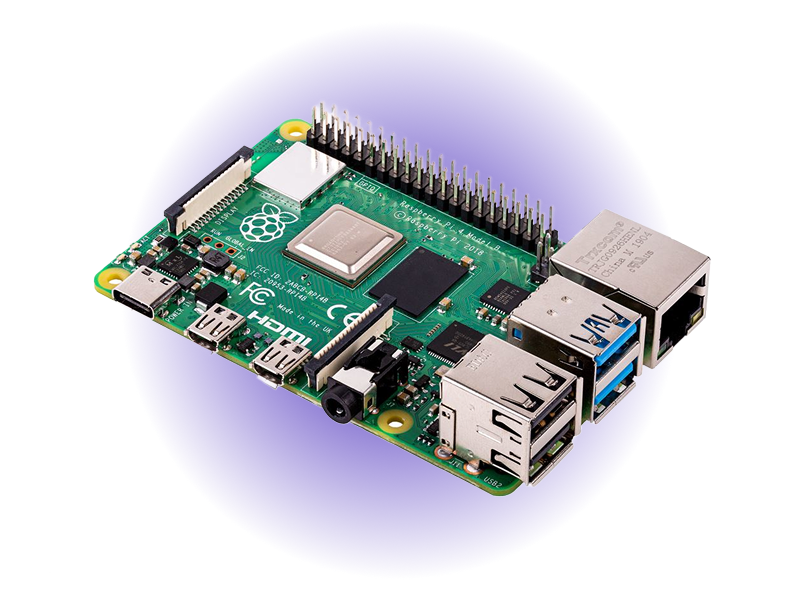
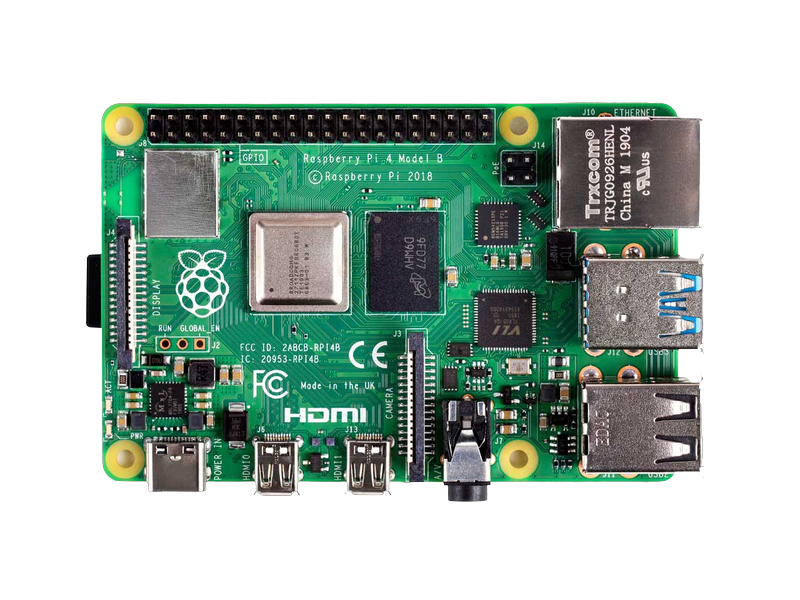
Remove the baked-in gradient from the target images (DES-274) (#493)
* Remove the baked-in gradient from the target images
* Address Copilot review feedback
* Finish the target-image sweep and fix the FRDM i.MX 93 art
* Point the solutions canonical URLs at pages that exist

diff --git a/src/src/data/solutions/nvidia/jetson-agx-orin.ts b/src/src/data/solutions/nvidia/jetson-agx-orin.ts
@@ -6,7 +6,7 @@ export const data: SolutionData = {
     'Production-ready NVIDIA Jetson AGX Orin deployment from day 1 with Peridio Fleet + Avocado OS. Enterprise Linux, secure OTA, and fleet management for the most powerful edge AI platform.',
   keywords:
     'nvidia jetson agx orin, device management, ota updates, yocto, embedded linux, industrial ai, robotics, fleet management, autonomous systems, edge computing',
-  ogImage: '/img/nvidia-jetson-agx-orin.jpg',
+  ogImage: '/img/nvidia-jetson-orin.jpg',
   canonicalUrl: 'https://docs.peridio.com/solutions/nvidia/jetson-agx-orin',
 
   hero: {
@@ -27,8 +27,8 @@ export const data: SolutionData = {
       text: 'Request Demo',
       link: 'https://peridio.com/book-a-meeting',
     },
-    image: '/img/jetson-agx-orin.png',
-    imageAlt: 'NVIDIA Jetson AGX Orin development kit',
+    image: '/img/hardware/nvidia/agx-orin.png',
+    imageAlt: 'NVIDIA Jetson AGX Orin module',
   },
 
   valueProposition: {
@@ -76,21 +76,21 @@ export const data: SolutionData = {
       title: 'Autonomous Vehicles',
       description:
         '275 TOPS powers full self-driving stacks with real-time sensor fusion, path planning, and decision making for Level 4+ autonomy.',
-      image: '/img/use-cases/autonomous-vehicles.png',
-      imageAlt: 'Autonomous Vehicles',
+      image: '/img/use-cases/road-scene-perception.png',
+      imageAlt: 'Street scene with cars, pedestrians, and signage picked out by object detection',
     },
     {
       title: 'Surgical Robotics',
       description:
         'Ultra-low latency AI inference for precision surgical procedures. Real-time computer vision and haptic feedback systems.',
-      image: '/img/use-cases/surgical-robotics.png',
-      imageAlt: 'Surgical Robotics',
+      image: '/img/use-cases/ml-inference-server.png',
+      imageAlt: 'Abstract rendering of an AI inference accelerator module',
     },
     {
       title: 'Smart City Infrastructure',
       description:
         'Process hundreds of camera feeds for traffic optimization, crowd analysis, and emergency response with enterprise reliability.',
-      image: '/img/use-cases/smart-city.png',
+      image: '/img/use-cases/traffic-flow-optimization.png',
       imageAlt: 'Smart City Infrastructure',
     },
   ],

diff --git a/src/src/components/solutions/UseCases.tsx b/src/src/components/solutions/UseCases.tsx
@@ -7,6 +7,7 @@ interface UseCasesProps {
     title: string
     description: string
     image?: string
+    imageAlt?: string
   }>
   title?: string
 }
@@ -22,7 +23,11 @@ export default function UseCases({ useCases, title = 'Production Use Cases' }: U
           {useCases.map((useCase, index) => (
             <div key={index} className={styles.useCase}>
               {useCase.image && (
-                <img src={useCase.image} alt={useCase.title} className={styles.useCaseImage} />
+                <img
+                  src={useCase.image}
+                  alt={useCase.imageAlt ?? useCase.title}
+                  className={styles.useCaseImage}
+                />
               )}
               <Heading as="h3">{useCase.title}</Heading>
               <p>{useCase.description}</p>

diff --git a/src/src/data/solutions/raspberry-pi/raspberry-pi-4-model-b.ts b/src/src/data/solutions/raspberry-pi/raspberry-pi-4-model-b.ts
@@ -6,8 +6,8 @@ export const data: SolutionData = {
     'Deploy Raspberry Pi 4 Model B devices in production with Peridio Fleet + Avocado OS. Yocto-based, secure OTA updates, enterprise support for IoT and edge computing.',
   keywords:
     'raspberry pi 4 model b, device management, ota updates, yocto, embedded linux, iot, edge computing, fleet management',
-  ogImage: '/img/raspberry-pi.jpg',
-  canonicalUrl: 'https://docs.peridio.com/solutions/raspberry-pi/raspberry-pi',
+  ogImage: '/img/Raspberrypi4.png',
+  canonicalUrl: 'https://docs.peridio.com/solutions/raspberry-pi/raspberry-pi-4-model-b',
 
   hero: {
     title: 'Production-Ready Raspberry Pi 4 Model B Deployment',

diff --git a/src/src/data/solutions/raspberry-pi/raspberry-pi-5.ts b/src/src/data/solutions/raspberry-pi/raspberry-pi-5.ts
@@ -6,8 +6,8 @@ export const data: SolutionData = {
     'Deploy Raspberry Pi 5 devices in production with Peridio Fleet + Avocado OS. Yocto-based, secure OTA updates, enterprise support for IoT and edge computing.',
   keywords:
     'raspberry pi 5, device management, ota updates, yocto, embedded linux, iot, edge computing, fleet management',
-  ogImage: '/img/raspberry-pi.jpg',
-  canonicalUrl: 'https://docs.peridio.com/solutions/raspberry-pi/raspberry-pi',
+  ogImage: '/img/raspberrypi-5.jpg',
+  canonicalUrl: 'https://docs.peridio.com/solutions/raspberry-pi/raspberry-pi-5',
 
   hero: {
     title: 'Production-Ready Raspberry Pi 5 Deployment',

diff --git a/src/src/data/solutions/qualcomm/iq9.ts b/src/src/data/solutions/qualcomm/iq9.ts
@@ -6,8 +6,8 @@ export const data: SolutionData = {
     'Deploy Qualcomm IQ9 (QCS8550) flagship edge AI platform with 45 TOPS performance. Production-ready with Peridio Fleet + Avocado OS for automotive and premium applications.',
   keywords:
     'qualcomm iq9, qcs8550, flagship edge ai, 45 tops, automotive ai, premium edge computing, device management, ota updates',
-  ogImage: '/img/iq9.jpeg',
-  canonicalUrl: 'https://docs.peridio.com/solutions/qualcomm/iq9',
+  ogImage: '/img/iq-9.jpeg',
+  canonicalUrl: 'https://docs.peridio.com/solutions/qualcomm/iq-9',
 
   hero: {
     title: 'Premium Edge AI Performance with Qualcomm IQ9',

diff --git a/src/src/data/solutions/nxp/imx8mp.ts b/src/src/data/solutions/nxp/imx8mp.ts
@@ -6,7 +6,7 @@ export const data: SolutionData = {
     'Deploy NXP i.MX 8M Plus for industrial vision and edge AI. 2.3 TOPS NPU, dual cameras, real-time processing. Production-ready with Peridio Fleet + Avocado OS.',
   keywords:
     'nxp imx8mp, i.mx 8m plus, industrial vision, edge ai camera, npu, dual camera, real-time processing, device management',
-  ogImage: '/img/nxp-imx8mp.jpg',
+  ogImage: '/img/nxp-imx8p.jpg',
   canonicalUrl: 'https://docs.peridio.com/solutions/nxp/imx8mp',
 
   hero: {

diff --git a/src/src/data/solutions/onlogic/fr201.ts b/src/src/data/solutions/onlogic/fr201.ts
@@ -7,7 +7,7 @@ export const data: SolutionData = {
   keywords:
     'onlogic fr201, industrial gateway, fanless pc, protocol bridge, atomic updates, fleet management, modbus, opc-ua',
   ogImage: '/img/FR201.png',
-  canonicalUrl: 'https://docs.peridio.com/solutions/onlogic',
+  canonicalUrl: 'https://docs.peridio.com/solutions/onlogic/fr201',
 
   hero: {
     title: 'Production-Ready Software on Industrial Grade Hardware',

diff --git a/src/src/data/solutions/seeed/reterminal.ts b/src/src/data/solutions/seeed/reterminal.ts
@@ -7,7 +7,7 @@ export const data: SolutionData = {
   keywords:
     'seeed reterminal, raspberry pi cm4, industrial hmi, touchscreen, edge computing, fleet management',
   ogImage: '/img/reterminal.jpg',
-  canonicalUrl: 'https://docs.peridio.com/solutions/seeed',
+  canonicalUrl: 'https://docs.peridio.com/solutions/seeed/reterminal',
 
   hero: {
     title: 'Industrial HMI with Seeed reTerminal',

diff --git a/src/src/data/solutions/nvidia/jetson-orin-nx.ts b/src/src/data/solutions/nvidia/jetson-orin-nx.ts
@@ -27,8 +27,8 @@ export const data: SolutionData = {
       text: 'Request Demo',
       link: 'https://peridio.com/book-a-meeting',
     },
-    image: '/img/jetson-nano.png',
-    imageAlt: 'NVIDIA Jetson Orin NX development kit',
+    image: '/img/hardware/nvidia/orin-nx.png',
+    imageAlt: 'NVIDIA Jetson Orin NX module',
   },
 
   valueProposition: {

diff --git a/src/src/data/solutions/nxp/frdm-93.ts b/src/src/data/solutions/nxp/frdm-93.ts
@@ -27,7 +27,7 @@ export const data: SolutionData = {
       text: 'Request Demo',
       link: 'https://peridio.com/book-a-meeting',
     },
-    image: '/img/hardware/nxp/NXP-FRDM-MCXN947.png',
+    image: '/img/hardware/nxp/nxp_frdm-imx-93.png',
     imageAlt: 'NXP FRDM i.MX 93 development board',
   },
 
